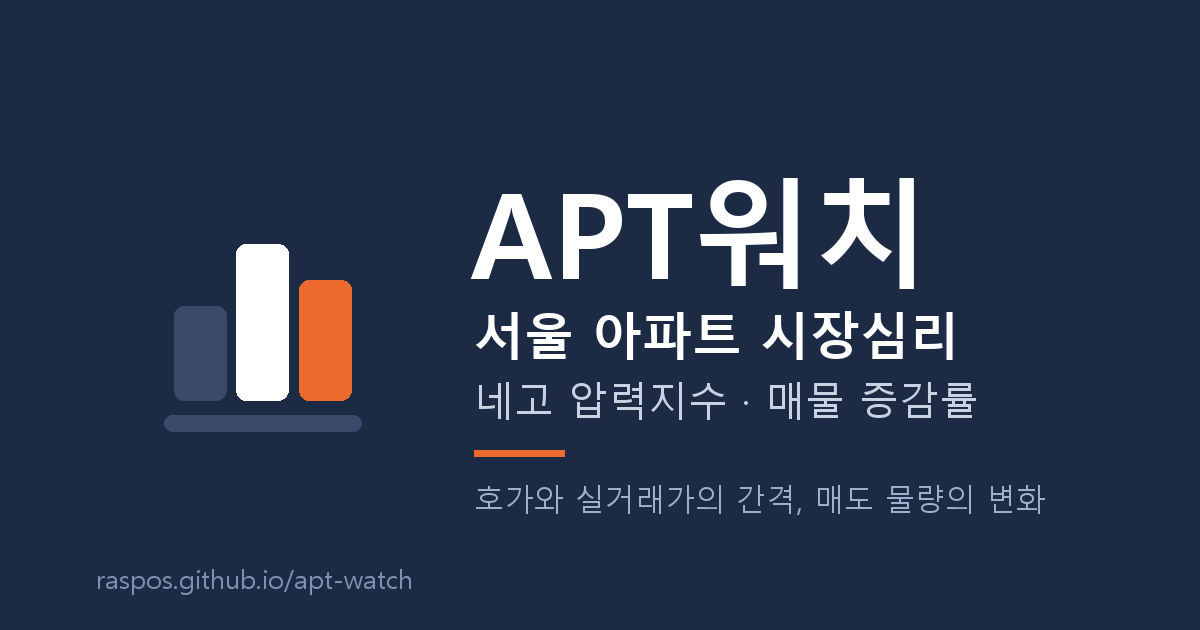
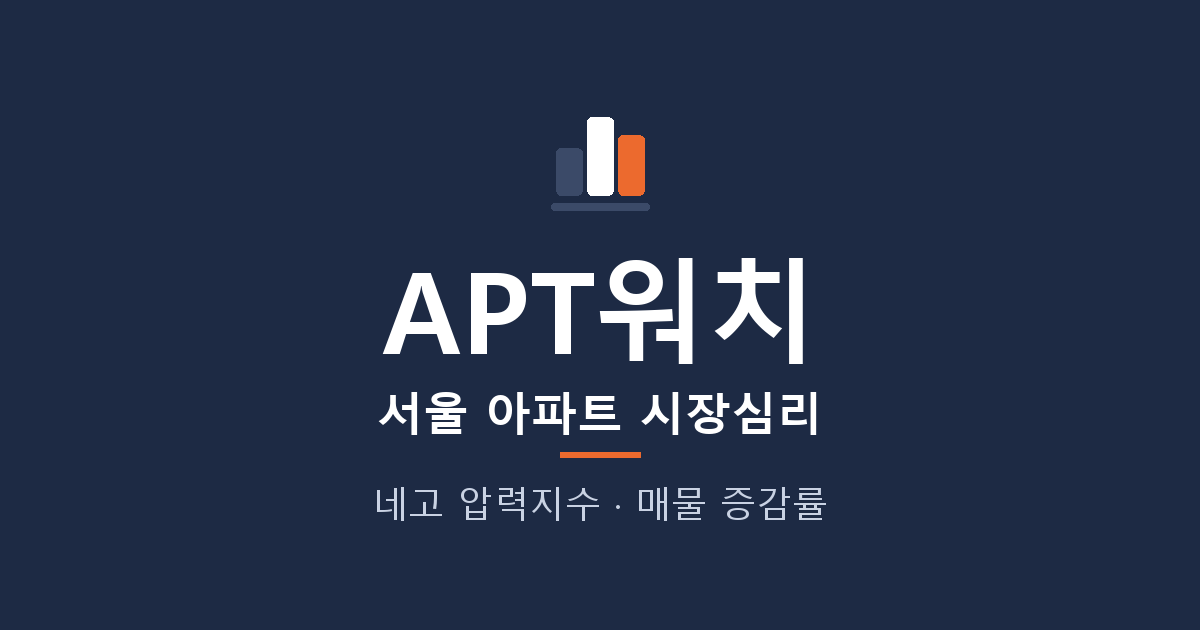
fix(site): crop-safe centred link thumbnail (square / 2:1 / 1.91:1)

Changed region(s): [[0.1233, 0.181, 0.8325, 0.754], [0.3083, 0.754, 0.8633, 0.8444], [0.0617, 0.9048, 0.3392, 0.9349]]

diff --git a/site/index.html b/site/index.html
@@ -11,8 +11,8 @@
 <meta property="og:title" content="APT워치 · 서울 아파트 시장심리">
 <meta property="og:description" content="서울 아파트 집주인 호가와 실거래가의 간격(네고 압력지수)과 매도 매물 증감률을 매일 관측합니다.">
 <meta property="og:url" content="https://raspos.github.io/apt-watch/">
-<meta property="og:image" content="https://raspos.github.io/apt-watch/og-image.png?v=2">
-<meta property="og:image:secure_url" content="https://raspos.github.io/apt-watch/og-image.png?v=2">
+<meta property="og:image" content="https://raspos.github.io/apt-watch/og-image.png?v=3">
+<meta property="og:image:secure_url" content="https://raspos.github.io/apt-watch/og-image.png?v=3">
 <meta property="og:image:type" content="image/png">
 <meta property="og:image:width" content="1200">
 <meta property="og:image:height" content="630">
@@ -21,7 +21,7 @@
 <meta name="twitter:card" content="summary_large_image">
 <meta name="twitter:title" content="APT워치 · 서울 아파트 시장심리">
 <meta name="twitter:description" content="서울 아파트 집주인 호가와 실거래가의 간격(네고 압력지수)과 매도 매물 증감률을 매일 관측합니다.">
-<meta name="twitter:image" content="https://raspos.github.io/apt-watch/og-image.png?v=2">
+<meta name="twitter:image" content="https://raspos.github.io/apt-watch/og-image.png?v=3">
 <link rel="icon" href="logo.svg" type="image/svg+xml">
 <link rel="stylesheet" href="watch-tokens.css">
 <link rel="stylesheet" href="style.css">
